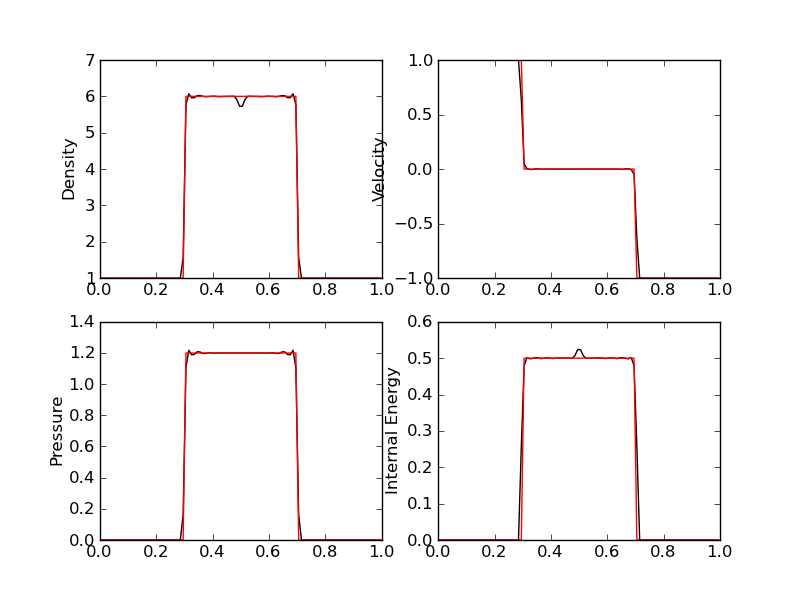
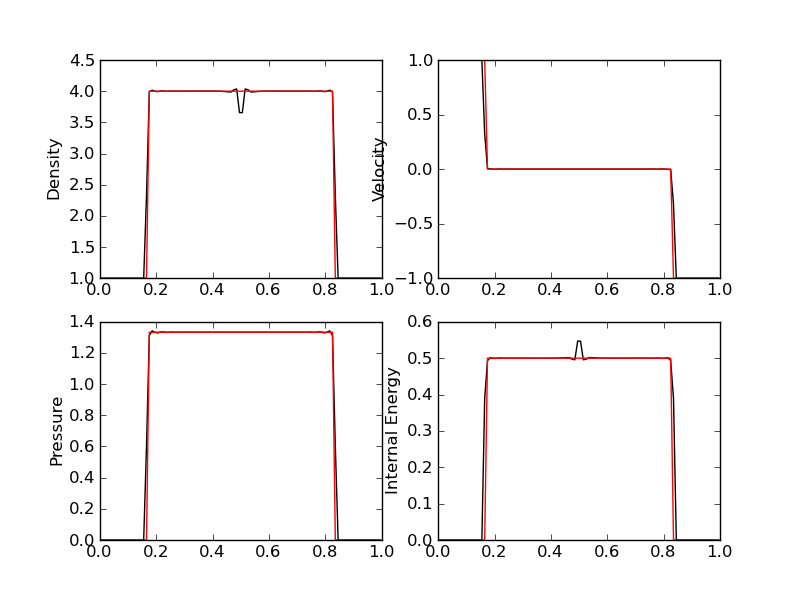
Added Noh problem.

diff --git a/je/je2/je2-euler-shock.rst b/je/je2/je2-euler-shock.rst
@@ -147,8 +147,9 @@ Problem 3
 +++++++++
 
 The 1D Noh problem. Domain is :math:`x \in [0,1]`, discretized with
-100 cells. Gas adiabatic constant of 1.4 was used. Simulation is
-initialized with a shock at :math:`x=0.5`, with left and right states
+100 cells. Gas adiabatic constant of :math:`5/3` was used. Simulation
+is initialized with a shock at :math:`x=0.5`, with left and right
+states
 
 .. math::
 
@@ -193,6 +194,9 @@ and is run to :math:`t=1.0`.
   Comparison of wave-propagation solution (black) with exact solution
   (red) for density (top left), velocity (top right), pressure (bottom
   left) and internal energy (bottom right).
+
+The MUSCL-Hancock scheme **fails** on this problem. A positivity fix
+needs to be implemented.
 
 Woodward-Collela blast wave problem
 -----------------------------------
